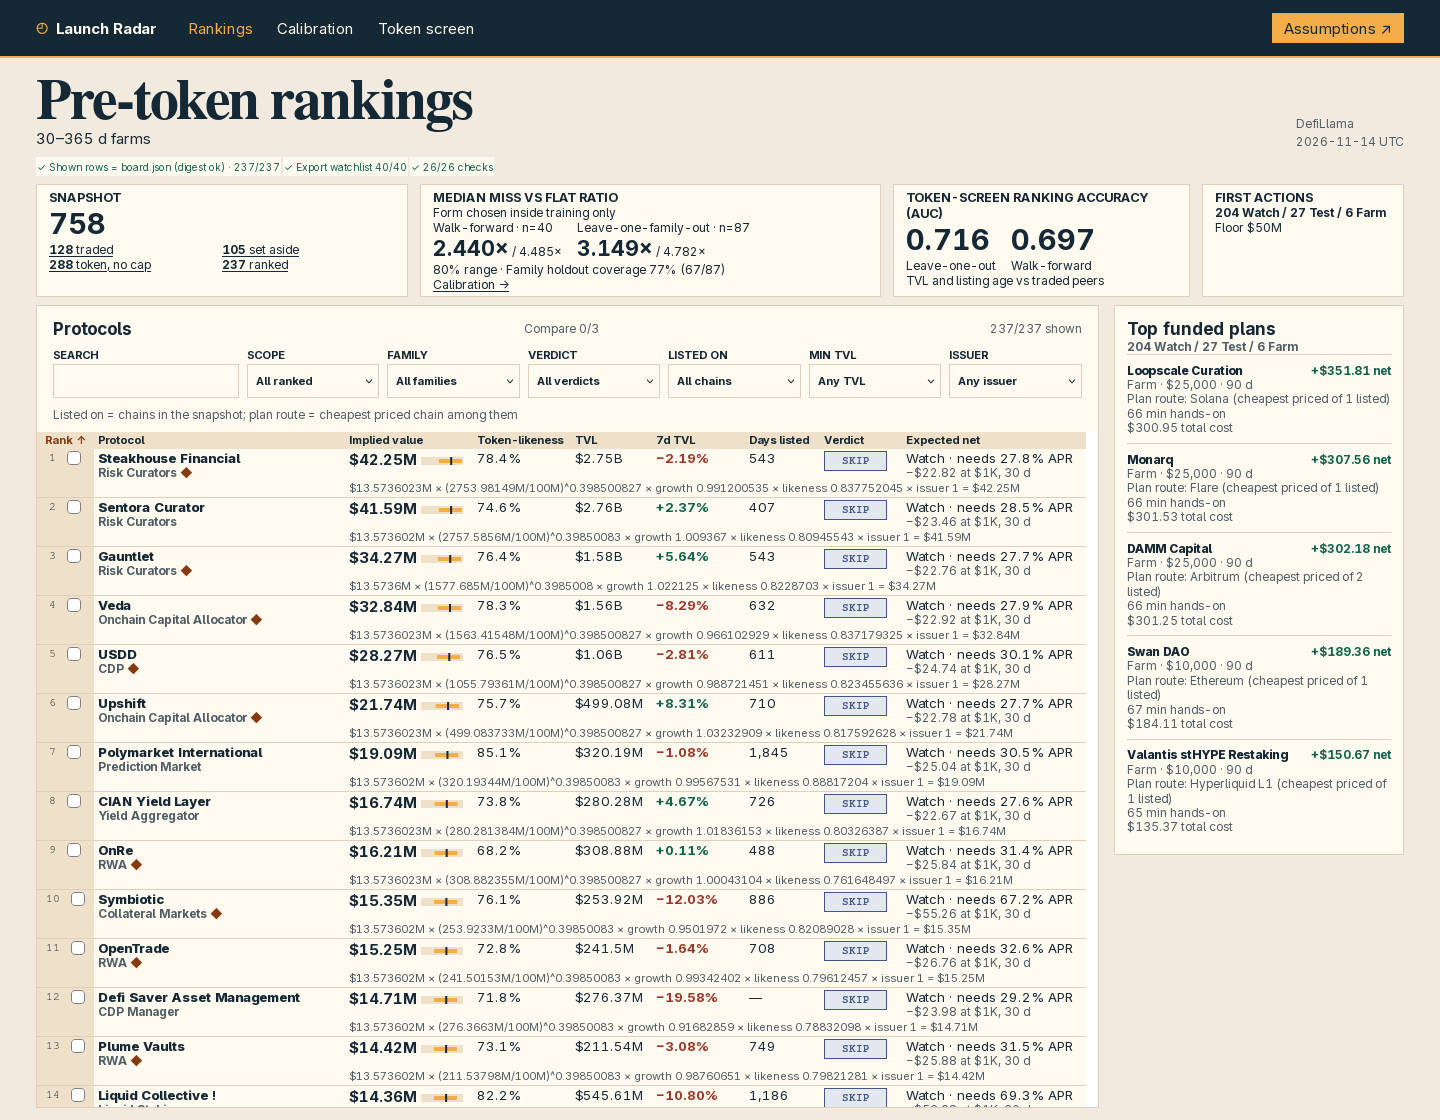
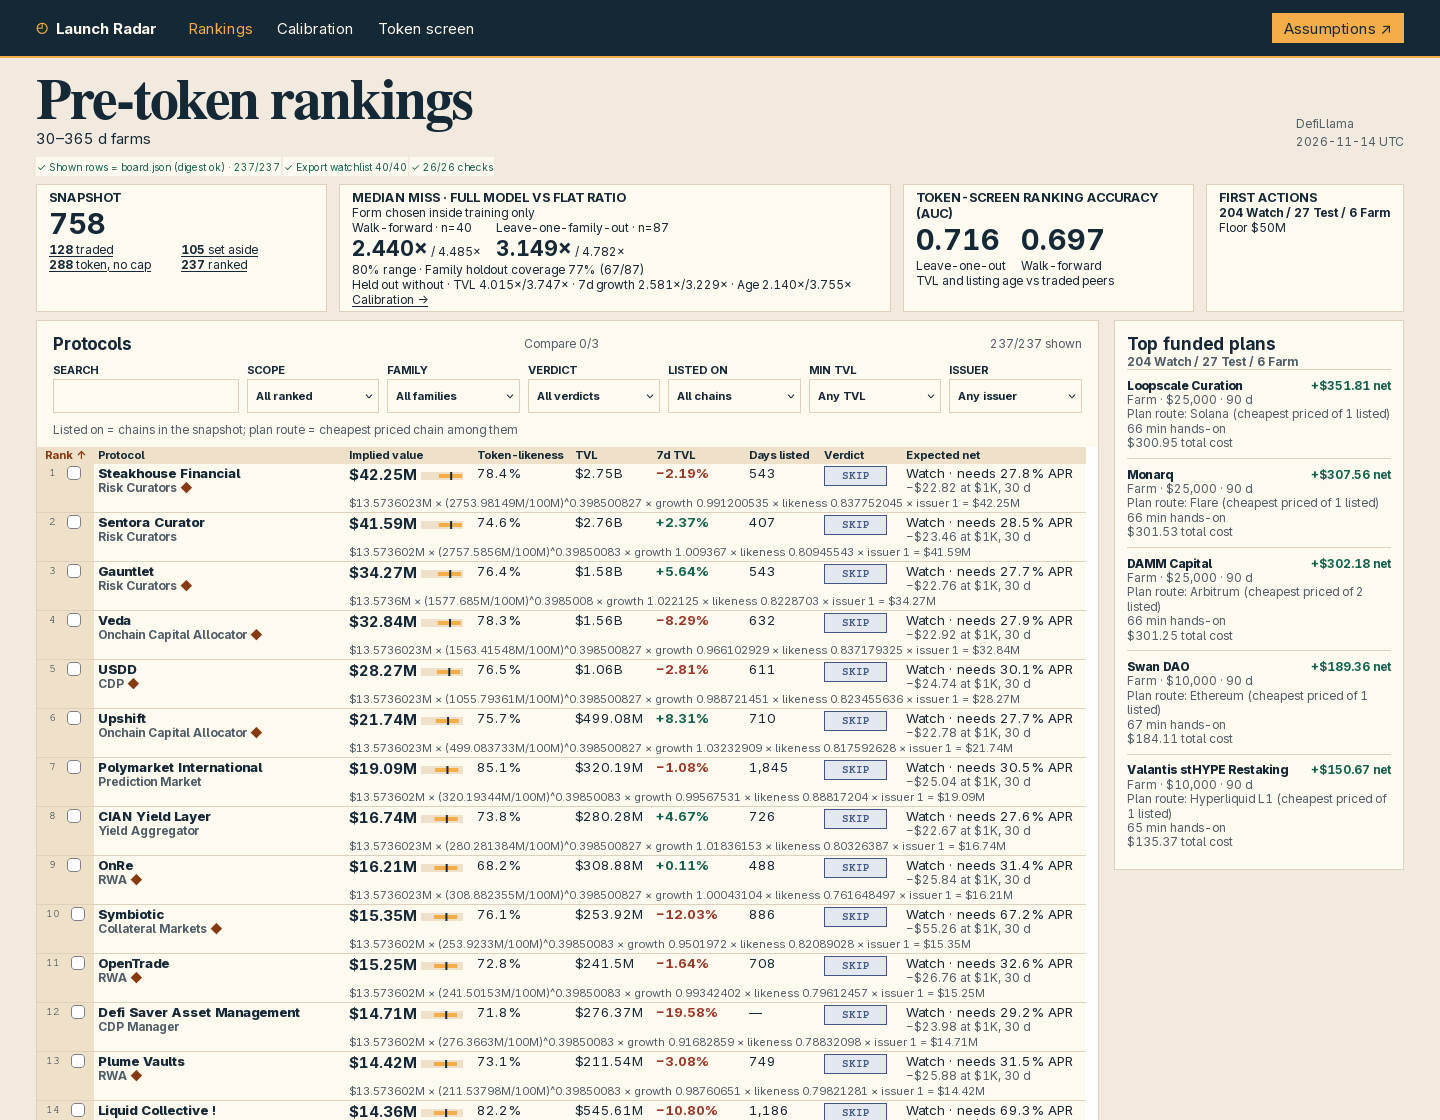
Held-out test of each value term

Changed region(s): [[0.0312, 0.1562, 0.9688, 1.0], [0.8438, 0.1562, 0.9688, 0.2188]]

diff --git a/dashboard/model.js b/dashboard/model.js
@@ -76,7 +76,7 @@ Mezo|.34|2.6|17`),
 		claimMins:8,claimTx:2,
 		peerCount:3,categoryGap:1,familyGap:.45
 	}
-const {entries,fromEntries:object,groupBy,hasOwn,keys,values,assign}=Object,{isFinite:finite,isInteger}=Number,
+const {entries,fromEntries:object,groupBy,hasOwn,keys,values}=Object,{isFinite:finite,isInteger}=Number,
 	mechanisms=tableData(3,`
 Lending|3|4|9|supply|to deepest stablecoin market. Borrow <30% LTV if needed|utilization, LTV
 Vault|3|12|12|deposit|in liquid yield vault. Hold shares|share price, exits
@@ -198,16 +198,16 @@ function accum({matrix,target},x,residual,weight=1){
 	}
 }
 
-function fitValue(pts,form="current",omitGrowth=false){
+function fitValue(pts,form="current",omit){
 	const age=form==="direct"||form==="pooled"?medianAge(pts):0,
 		families=form==="pooled"?unique(pts.map(p=>p.family)):[],
-		shrink=sqrt(pts.length),fit={age,families,omitGrowth},
+		shrink=sqrt(pts.length),fit={age,families,omit},
 		eq=normal([1e-8,1e-8+shrink,...(age?[shrink,...families.map(()=>4*shrink)]:[])])
 	for(const p of pts) accum(eq,capInputs(fit,p),p.response)
 	return{...fit,coefs:solve(eq.matrix,eq.target)}
 }
-function capInputs({age,families,omitGrowth},p){
-	const x=[1,omitGrowth?p.rawSize:p.size]
+function capInputs({age,families,omit},p){
+	const x=[1,omit==="tvl"?log(1+p.growth/100):omit==="growth"?p.rawSize:p.size]
 	if(age){
 		const a=logAge(p,age)
 		x.push(a,...families.map(f=>p.family===f?a:0))
@@ -241,83 +241,80 @@ function fitBand(pts,form,levels=band){
 	return errors.length?levels.map(q=>quant(errors,q)):null
 }
 const forms={current:"Full token-likeness",direct:"Age power on cap",pooled:"Family-pooled age power",shrink:"Shrunk token-likeness"},
-	outerTerms={growth:"7-day growth",age:"Listing age",issuer:"Issuer factor"},
+	outerTerms={tvl:"TVL",growth:"7d growth",age:"Age"},
 	outerTests={walk:"Walk-forward",family:"Leave-one-family-out"},
+	schemes=keys(outerTests),
 	weights=[.125,.25,.5,.75,1],
 	splitsFor=(pts,k,warmup)=>k==="walk"?folds(pts,true,warmup):leaveOut(pts,p=>p.family),
 	mixFor=(form,w)=>form==="current"?1:form==="shrink"?w:0,
 	ageMul=(s,w)=>1-w*(1-s),
-	errorOf=(p,cap,age,issuer)=>p.response-log(score(cap,age,issuer)),
-	errFor=(fit,[p,s,h],w)=>errorOf(p,exp(capLog(fit,p)),ageMul(s,w),h)
+	errFor=(fit,[p,s,h],w)=>p.response-log(score(exp(capLog(fit,p)),ageMul(s,w),h))
 function training(test,recs,k){
 	const held=new Set(test.map(tokenKey))
 	return recs.filter(p=>!held.has(tokenKey(p))&&
 		(k==="walk"?p.date!==null&&p.date<test[0].date:p.family!==test[0].family))
 }
-function inputsFor(test,recs){
-	const odds=fitOdds(recs.filter(p=>!p.product)),words=issuers(recs)
-	return test.map(p=>[p,tokenOdds(odds,p),flagsFor(p,words).length?A.haircut:1])
-}
-function tuneWeight(pts,recs,schemes){
-	const errors=schemes.flatMap(k=>splitsFor(pts,k,12).flatMap(([train,test])=>{
-		const fit=fitValue(train)
-		return inputsFor(test,training(test,recs,k)).map(([p,s,h])=>[p,exp(capLog(fit,p)),s,h])
+function valueFolds(pts,recs,cache,warmup){
+	return record(schemes,k=>splitsFor(pts,k,warmup).map(([train,test])=>{
+		const eligible=training(test,recs,k),ratio=quant(train.map(p=>p.mcap_usd/p.tvl_usd)),
+			screen=eligible.filter(p=>!p.product),key=screen.map(p=>p.slug).join("\n"),
+			odds=cache.get(key)??fitOdds(screen),words=issuers(eligible)
+		cache.set(key,odds)
+		return{family:test[0].family,train,eligible,
+			inputs:test.map(p=>[p,tokenOdds(odds,p),flagsFor(p,words).length?A.haircut:1]),
+			rows:test.map(p=>({slug:p.slug,flat:p.response-log(p.tvl_usd*ratio)}))}
 	}))
-	return errors.length?weights.map(w=>[w,medianMiss(errors.map(([p,cap,s,h])=>errorOf(p,cap,ageMul(s,w),h)))])
-		.sort((a,b)=>a[1]-b[1])[0][0]:.5
 }
-function outer(pts,recs,inner=false){
-	return record(keys(outerTests),k=>splitsFor(pts,k,inner?12:undefined).map(([train,test])=>{
-		const eligible=training(test,recs,k),w=inner?0:tuneWeight(train,eligible,[k]),
-			fits=record(keys(forms),f=>fitValue(train,f)),
-			ratio=quant(train.map(p=>p.mcap_usd/p.tvl_usd)),
-			inputs=inputsFor(test,eligible),rows=inputs.map(input=>{
-			const [p]=input,errors=record(keys(forms),f=>errFor(fits[f],input,mixFor(f,w)))
-			if(inner) for(const w of weights) errors[w]=errFor(fits.current,input,w)
-			return{slug:p.slug,...errors,flat:p.response-log(p.tvl_usd*ratio)}
-		})
-		return{family:test[0].family,rows,train,inputs,w,fits,eligible}
-	}))
+const capForms=["current","direct","pooled"]
+function scoreFold({train,inputs,rows},kinds,omit){
+	const current=fitValue(train,"current",omit)
+	for(const k of kinds){
+		const fit=k==="direct"||k==="pooled"?fitValue(train,k,omit):current,
+			w=omit==="age"?0:k==="current"?1:+k||0
+		inputs.forEach((input,i)=>rows[i][k]=errFor(fit,input,w))
+	}
 }
 const foldRows=fs=>fs.flatMap(f=>f.rows),
 	missOf=(rows,kind)=>medianMiss(rows.map(row=>row[kind])),
 	missStats=(rows,form)=>({miss:missOf(rows,form),flat:missOf(rows,"flat"),n:rows.length}),
 	scoresFor=(tests,kinds)=>{
-		const ks=keys(tests),errors=record(ks,k=>foldRows(tests[k])),pooled=values(errors).flat()
-		return record(kinds,f=>({...record(ks,k=>missOf(errors[k],f)),pooled:missOf(pooled,f)}))
+		const errors=record(schemes,k=>foldRows(tests[k])),pooled=values(errors).flat()
+		return record(kinds,f=>({...record(schemes,k=>missOf(errors[k],f)),pooled:missOf(pooled,f)}))
 	},
-	chooseForm=({flat,...scores})=>keys(scores).filter(f=>keys(outerTests).every(k=>scores[f][k]!=null&&scores[f][k]<flat[k]))
+	chooseForm=({flat,...scores})=>keys(scores).filter(f=>schemes.every(k=>scores[f]?.[k]!=null&&scores[f][k]<flat[k]))
 		.sort((a,b)=>scores[a].pooled-scores[b].pooled)[0]
-function confirm({train,eligible,fits,inputs,rows}){
-	const inner=scoresFor(outer(train,eligible,true),[...keys(forms),"flat",...weights]),
-		w=weights.reduce((a,b)=>inner[b].pooled<inner[a].pooled?b:a),
-		{current,direct,pooled,flat}=inner,
-		form=chooseForm({current,direct,pooled,shrink:inner[w],flat})??"current",
-		weight=mixFor(form,w)
-	inputs.forEach((input,i)=>rows[i].confirmed=errFor(fits[form],input,weight))
+function innerScores(folds,omit){
+	const kinds=omit==="age"?["current"]:[...capForms,...weights]
+	for(const fold of values(folds).flat()) scoreFold(fold,kinds,omit)
+	return scoresFor(folds,["flat",...kinds])
+}
+const bestWeight=(scores,k)=>scores[weights[0]]?.[k]==null?.5:
+	weights.reduce((a,b)=>scores[b][k]<scores[a][k]?b:a)
+function confirm({train,inputs,rows},scores,omit){
+	const w=bestWeight(scores,"pooled"),{current,direct,pooled,flat}=scores,
+		form=chooseForm({current,direct,pooled,shrink:scores[w],flat})??"current",
+		fit=fitValue(train,form,omit),
+		weight=omit==="age"?0:mixFor(form,w)
+	inputs.forEach((input,i)=>rows[i][omit??"confirmed"]=errFor(fit,input,weight))
 }
 function valueTest(pts,recs){
-	const tests=outer(pts,recs),candidates=scoresFor(tests,[...keys(forms),"flat"]),
+	const cache=new Map,tests=valueFolds(pts,recs,cache)
+	for(const [k,folds] of entries(tests)) for(const fold of folds){
+		const inner=valueFolds(fold.train,fold.eligible,cache,12),scores=innerScores(inner),w=bestWeight(scores,k)
+		scoreFold(fold,[...capForms,w])
+		for(const row of fold.rows) row.shrink=row[w]
+		confirm(fold,scores)
+		for(const omit of keys(outerTerms)) confirm(fold,innerScores(inner,omit),omit)
+	}
+	const candidates=scoresFor(tests,[...keys(forms),"flat"]),
 		winner=chooseForm(candidates),form=winner??"current",
-		weight=mixFor(form,form==="shrink"?tuneWeight(pts,recs,keys(tests)):0),
-		fit=fitValue(pts,form)
-	for(const [k,folds] of entries(tests)) tests[k]=folds.map(fold=>{
-		confirm(fold)
-		const {family,rows,train,inputs,w,fits}=fold,noGrowth=fitValue(train,form,true),amount=mixFor(form,w)
-		inputs.forEach((input,i)=>{
-			const [p,s]=input
-			assign(rows[i],{growth:errFor(noGrowth,input,amount),age:errFor(fits.current,input,0),
-				issuer:errFor(fits[form],[p,s,1],amount)})
-		})
-		return{family,rows,train,bounds:k==="family"?fitBand(train,form):null}
-	})
-	const misses=scoresFor(tests,keys(outerTerms)),
-		headline=confirmation(tests),
-		issuerNote=misses.issuer.pooled>candidates[form].pooled?"Lower pooled miss with the factor":"Issuer assumption raised or tied pooled miss",
-		ablation=entries(outerTerms).map(([k,term])=>({term,withTerm:candidates[form],without:misses[k]})),
+		weight=form==="shrink"?bestWeight(innerScores(valueFolds(pts,recs,cache,12)),"pooled"):mixFor(form,0),
+		fit=fitValue(pts,form),headline=confirmation(tests),
+		ablation=record(keys(outerTerms),k=>confirmation(tests,k)),
 		coverage={}
 	let n=0,hits=0
-	for(const {family,rows,bounds} of tests.family){
+	for(const fold of tests.family){
+		const {family,rows,train}=fold,bounds=fold.bounds=fitBand(train,form)
 		if(!bounds) continue
 		const size=rows.length,b=coverage[size<8?"Other":family]??={n:0,hits:0},
 			h=count(rows,r=>inside(r[form],bounds))
@@ -328,10 +325,10 @@ function valueTest(pts,recs){
 	}
 	const label=n?round(100*hits/n):null,
 		[lo,hi,midLo,midHi]=fitBand(pts,form,[...band,.25,.75])
-	return{tests,candidates,form,winner,weight,fit,headline,ablation,issuerNote,
+	return{tests,candidates,form,winner,weight,fit,headline,ablation,
 		ranges:{bounds:{[bandPct]:[lo,hi],50:[midLo,midHi]},hits,label,n,coverage}}
 }
-const confirmation=tests=>record(keys(tests),k=>missStats(foldRows(tests[k]),"confirmed"))
+const confirmation=(tests,term="confirmed")=>record(schemes,k=>missStats(foldRows(tests[k]),term))
 const sigmoid=x=>1/(1+exp(-limit(x,-35,35))),
 	oddsInputs=(p,age)=>[1,p.rawSize,logAge(p,age)]
 function fitOdds(pts){
@@ -604,11 +601,9 @@ function selfChecks({rows:rs,board,counts,recs,verdicts,stress,calibration,value
 			const matches=plans.filter(p=>p.stress[k].verdict===v)
 			return all[v]===matches.length&&farm[v]===count(matches,isFarm)
 		})),
-		"value term replay":value.ablation.every((a,i)=>{
-			const [k,label]=entries(outerTerms)[i]
-			return a.term===label&&a.withTerm===candidates[form]
-				&&same(a.without,scoresFor(tests,[k])[k])
-		}),
+		"drop-one folds and counts":keys(outerTerms).every(t=>same(value.ablation[t],confirmation(tests,t))
+			&&schemes.every(k=>value.ablation[t][k].n===headline[k].n
+				&&tests[k].every(f=>f.rows.every(r=>finite(r[t]))))),
 		"board digest":digest(boardRows(rs))===expectedDigest
 	})]
 }
@@ -655,6 +650,6 @@ const statuses=["traded","recorded","setAside","ranked"],
 const settings={parameters:A,timing,
 	notes:[`Test cap ${whole(A.tickets.at(-2))}. Farm requires ${A.farmRatio}× cost in expected proceeds and no flags.`,
 		`Depositors get ${pct(A.depositorShare,0)} of rewards. ${pct(A.tvlShare,0)} of TVL competes.`,
-		"Excludes yield, taxes and price moves."]}
+		"Issuer haircut is fixed. Excludes yield, taxes and price moves."]}
 if(typeof module==="object") module.exports={buildModel,boardChecks,selfChecks,boardRows,digest,exportManifest,
-	priceFarm,chooseFarm,firstAction,actionCounts,forms}
+	priceFarm,chooseFarm,firstAction,actionCounts,forms,outerTerms}

diff --git a/dashboard/app.js b/dashboard/app.js
@@ -20,7 +20,7 @@ const {rows:rs,recs,counts:ns,verdicts,value,odds,assumptions:setup,board:{rows:
 	auc=k=>odds.validation[k].auc?.toFixed(3)??dash
 const aucLabel="Token-screen ranking accuracy (AUC)",
 	aucLine=`${aucLabel} ${auc("walk")} walk-forward`,
-	{headline,ablation,issuerNote,candidates,form,weight,ranges:{label,hits,n:bandN,coverage}}=value,
+	{headline,ablation,candidates,form,weight,ranges:{label,hits,n:bandN,coverage}}=value,
 	bandName=label==null?"Uncalibrated range":`${bandPct}% range`,
 	groups=[["traded","traded"],["setAside","set aside"],["recorded","token, no cap"],["ranked","ranked"]],
 	choices=items=>["",...unique(items).sort()]
@@ -66,7 +66,7 @@ const badge=v=>`<span class="badge ${v.toLowerCase()}">${v}</span>`,
 	rowName=r=>esc(r.category||r.family),
 	watch=p=>watchLines(p,short).join("<small>")+"</small>"
 const intro=(title,copy="",lead="",lbl="")=>`<header class=intro><div>${lbl}<h1>${title}</h1>${lead}<p>${copy}</div><small>DefiLlama<br>${esc(snap.as_of)} UTC</small></header>`,
-	missTitle="Median miss vs flat ratio",
+	missTitle="Median miss · full model vs flat ratio",
 	panel=(kind,title,body)=>`<section class="panel ${kind}"><h2>${title}</h2>${body}</section>`,
 	card=(title,body)=>panel("kpi",title,body),inset=(title,body,kind="")=>panel("inset"+kind,title,body)
 
@@ -76,6 +76,8 @@ const valueStats=`<p class=nested>Form chosen inside training only</p>
 		return`<div><span>${lbl} · n=${n}</span><strong>${mult(miss)}</strong> / ${mult(flat)}${miss!==null&&miss>=flat?"<small>Flat ratio ties or wins.</small>":""}</div>`
 	})}</div>
 <p class=coverage>${bandN?`${bandName} · Family holdout coverage ${label}% (${hits}/${bandN})`:"Range coverage unavailable"}</p>`
+const dropPairs=entries(outerTerms).map(([k,label])=>[label,...schemes.map(s=>mult(ablation[k][s].miss))]),
+	dropLine=`<p class=drop>Held out without · ${dropPairs.map(([label,...miss])=>label+" "+miss.join("/")).join(" · ")}</p>`
 const tokenLinks=(st,separator="")=>groups.map(([k,lbl])=>
 	`<a href="${href("tokens",st,k)}"${st.route==="tokens"&&st.slug===k?' aria-current="page"':""}><b>${ns[k]}</b> ${lbl}</a>`).join(separator),
 	searchBox=st=>`<label>Search<input id=search type=search value="${esc(st.q)}" autocomplete=off></label>`,
@@ -83,7 +85,7 @@ const tokenLinks=(st,separator="")=>groups.map(([k,lbl])=>
 const kpis=st=>`<section class=kpis>
 ${card("Snapshot",`<strong>${ns.total}</strong>
 <div class=groups id=token-groups></div>`)}
-${card(missTitle,valueStats+calLink(st))}
+${card(missTitle,valueStats+dropLine+calLink(st))}
 ${card(aucLabel,`<div class=readings>${html([["loo","Leave-one-out"],["walk",outerTests.walk]],([k,lbl])=>
 	`<div><strong>${auc(k)}</strong><span>${lbl}</span></div>`)}</div><p>TVL and listing age vs traded peers`)}
 ${card("First actions",`<b id=cover-counts>${actions}</b><p>Floor ${short(snap.floor_usd)}`)}</section>`
@@ -301,15 +303,16 @@ ${fp.capital?inset("Same ticket · snapshot defaults",facts("Scenario|Verdict|Ne
 </div></div>`
 }
 function calibration(){
-	const axes=[...values(outerTests),"Pooled"],tests=[...keys(outerTests),"pooled"],
-		scores=facts(["Value form",...axes],entries(forms).map(([f,label])=>
+	const tests=[...schemes,"pooled"],
+		scores=facts(["Value form",...values(outerTests),"Pooled"],entries(forms).map(([f,label])=>
 			[label+(f===form?" · deployed":""),...tests.map(k=>mult(candidates[f][k]))])),
-		table=facts(["Term",...axes],ablation.map(({term,withTerm,without})=>
-			[term,...tests.map(k=>`${mult(withTerm[k])} / ${mult(without[k])}`)]))
+		table=facts(["Model",...schemes.map(k=>`${outerTests[k]} · n=${headline[k].n}`)],[
+			["Full model",...schemes.map(k=>mult(headline[k].miss))],
+			...dropPairs.map(([label,...miss])=>["Without "+label+(label==="TVL"?" exponent":""),...miss])])
 	return`${intro("Trading-token calibration")}
 ${inset(missTitle,valueStats+`<p>Flat uses median training cap/TVL. Ranges use leave-one-out cap residuals.`)}
 ${inset("Candidates scored on outer folds, for reference",scores," candidates")}
-${inset("Deployed terms · median miss with / without",table," ablation")}
+${inset("Held-out median miss by omitted term",table," ablation")}
 ${inset(oddsTitle,`<p class=likeness>${aucLine}. ${setup.timing}`)}`
 }
 const tokens=st=>`${intro("Token screen","Pre-token means the snapshot records no token.")}
@@ -354,7 +357,7 @@ function render(){
 }
 
 check.title=results.map(({name,pass})=>`${name}: ${pass?"pass":"fail"}`).join("\n")
-put(".drawer",`<ul><li>Issuer factor · ${issuerNote}${html(setup.notes,s=>`<li>${esc(s)}`)}</ul>`)
+put(".drawer",`<ul>${html(setup.notes,s=>`<li>${esc(s)}`)}</ul>`)
 $("#open").onclick=()=>$("#assumptions").showModal()
 view.oninput=({target:el})=>{
 	if(el.id==="search"){

diff --git a/dashboard/style.css b/dashboard/style.css
@@ -35,7 +35,7 @@ small{color:#4f5e66}
 .chip{padding:2px 1px;white-space:nowrap;font-size:.68rem}
 .back{margin-top:16px}
 .kpis,.groups,.board,.detail,.detail>div,.filters,.steps li,.quotes,.age{display:grid}
-.kpis{grid:auto/1.25fr 1.55fr 1fr .68fr;gap:12px;margin-bottom:8px}
+.kpis{grid:auto/1fr 1.9fr 1fr .68fr;gap:12px;margin-bottom:8px}
 .kpi{padding:4px 12px;line-height:1.25}
 .kpi h2,.filters label,.kicker{text-transform:uppercase}
 .kpi strong{font-size:1.94rem}
